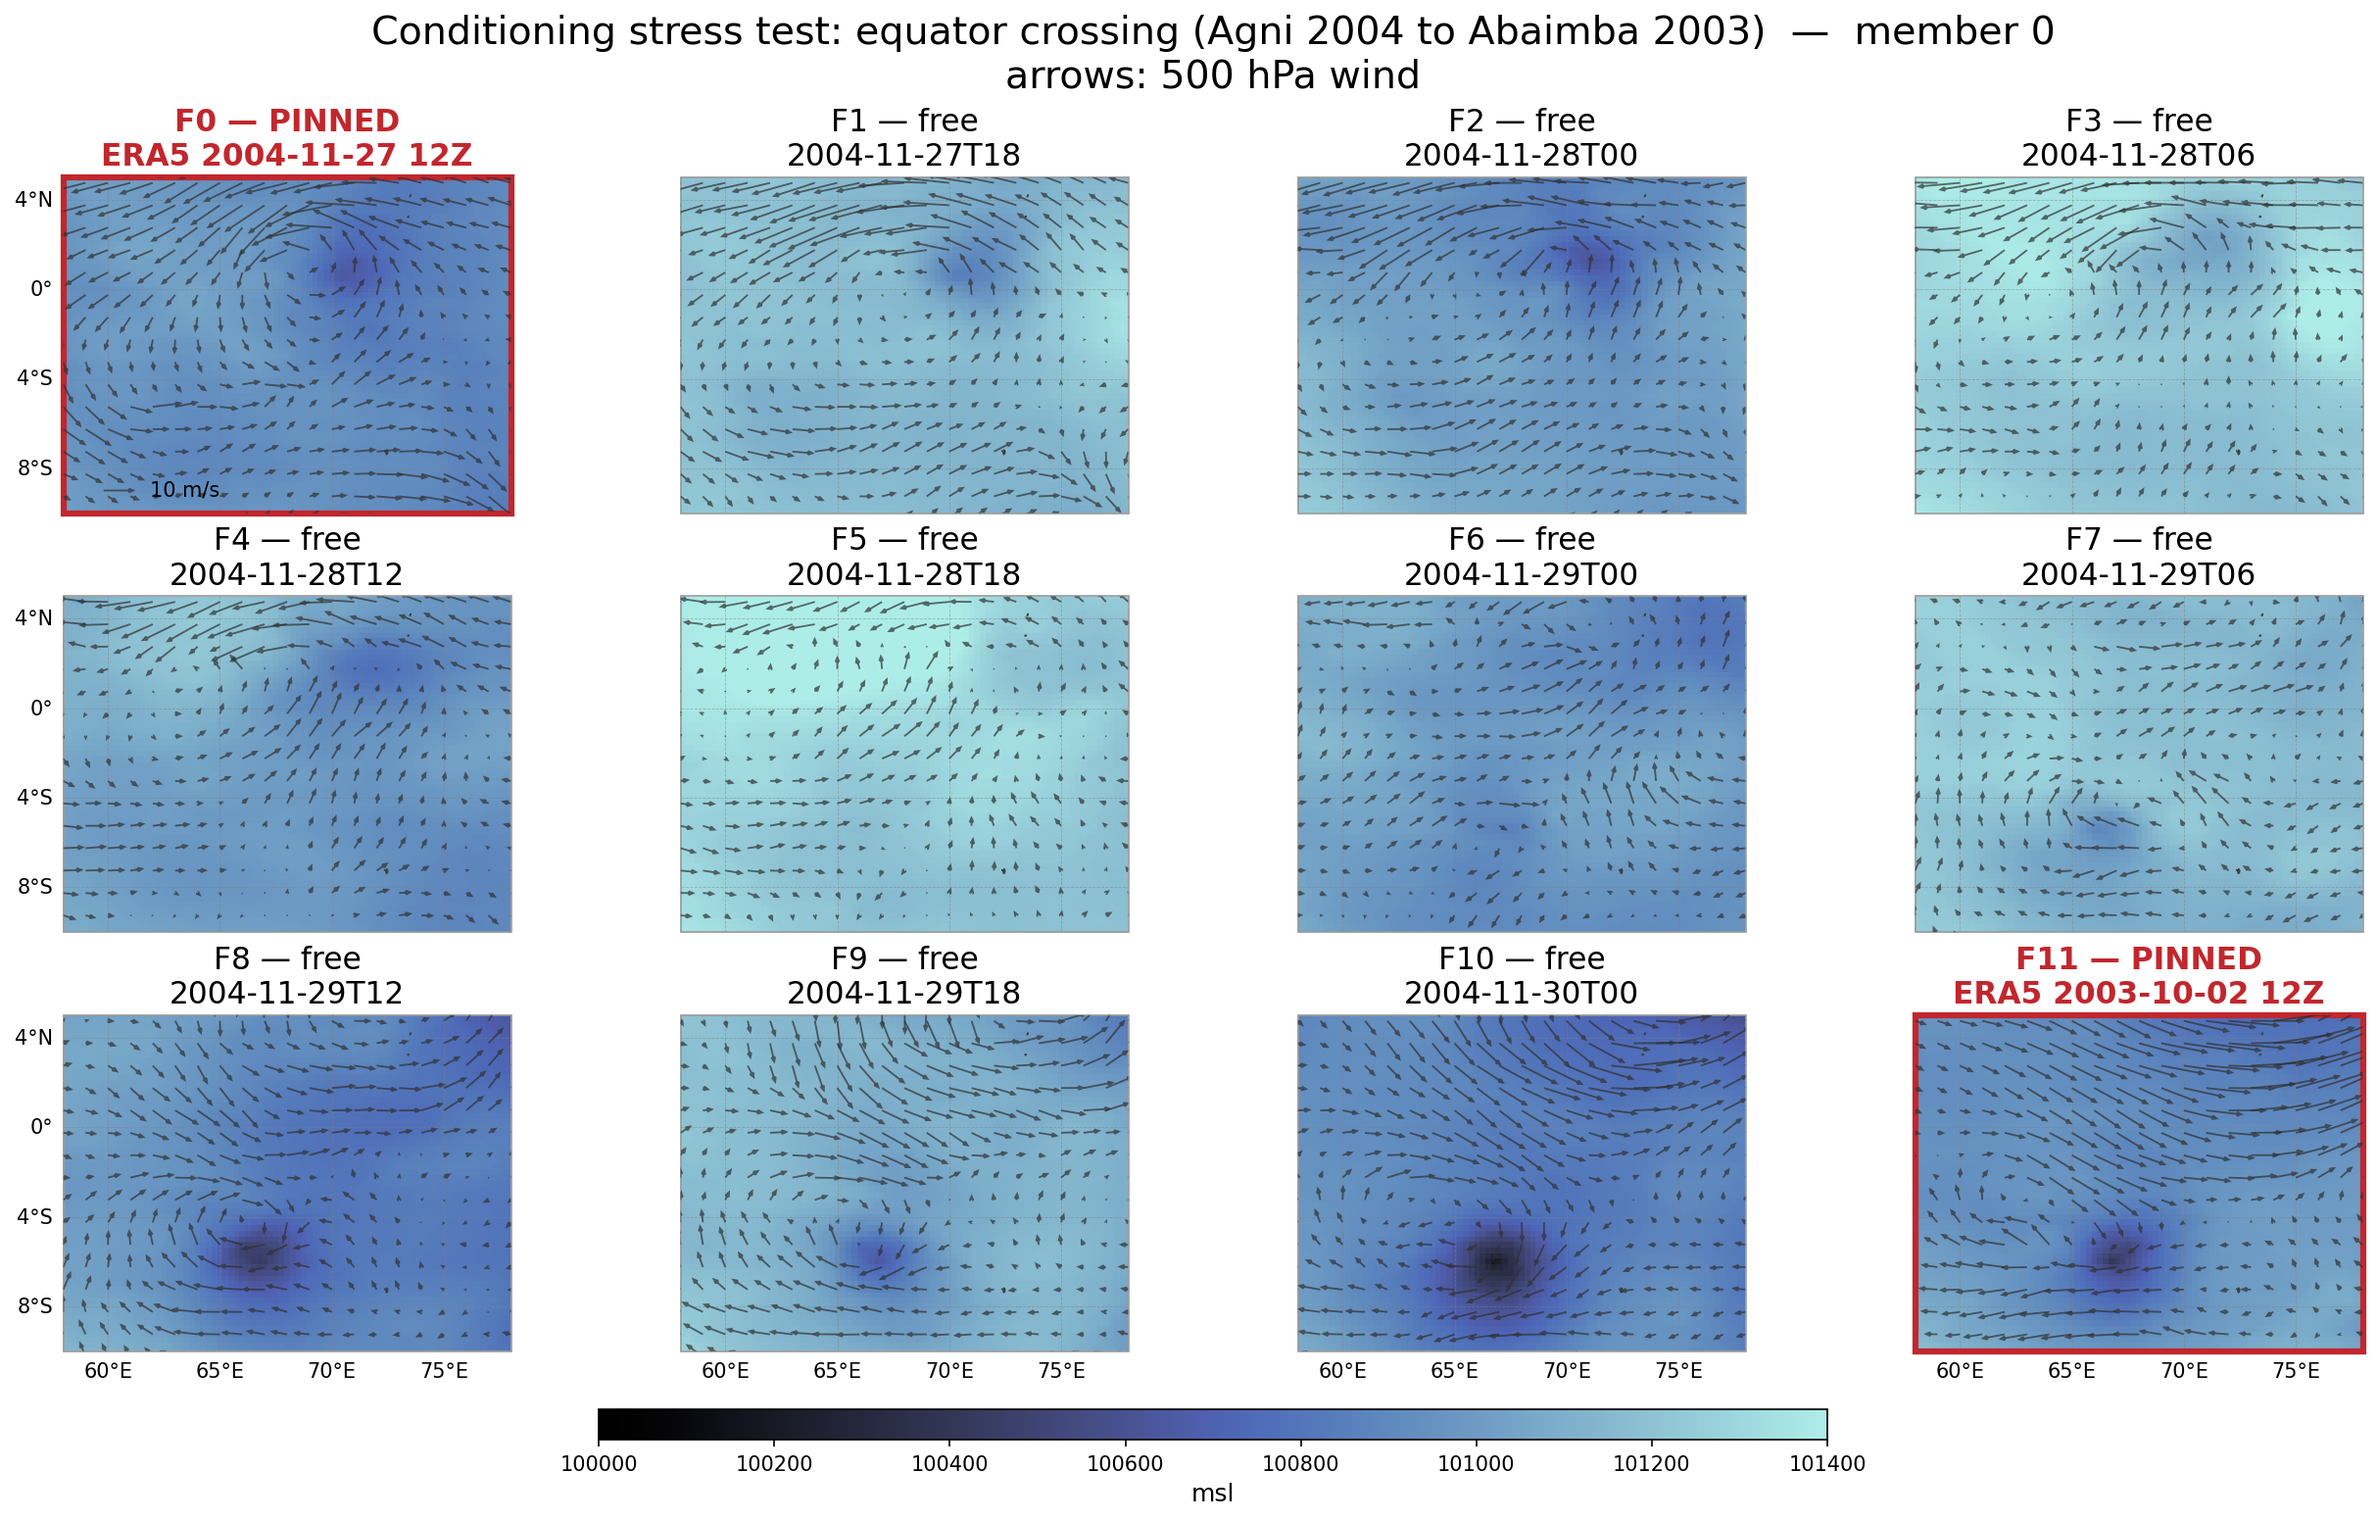
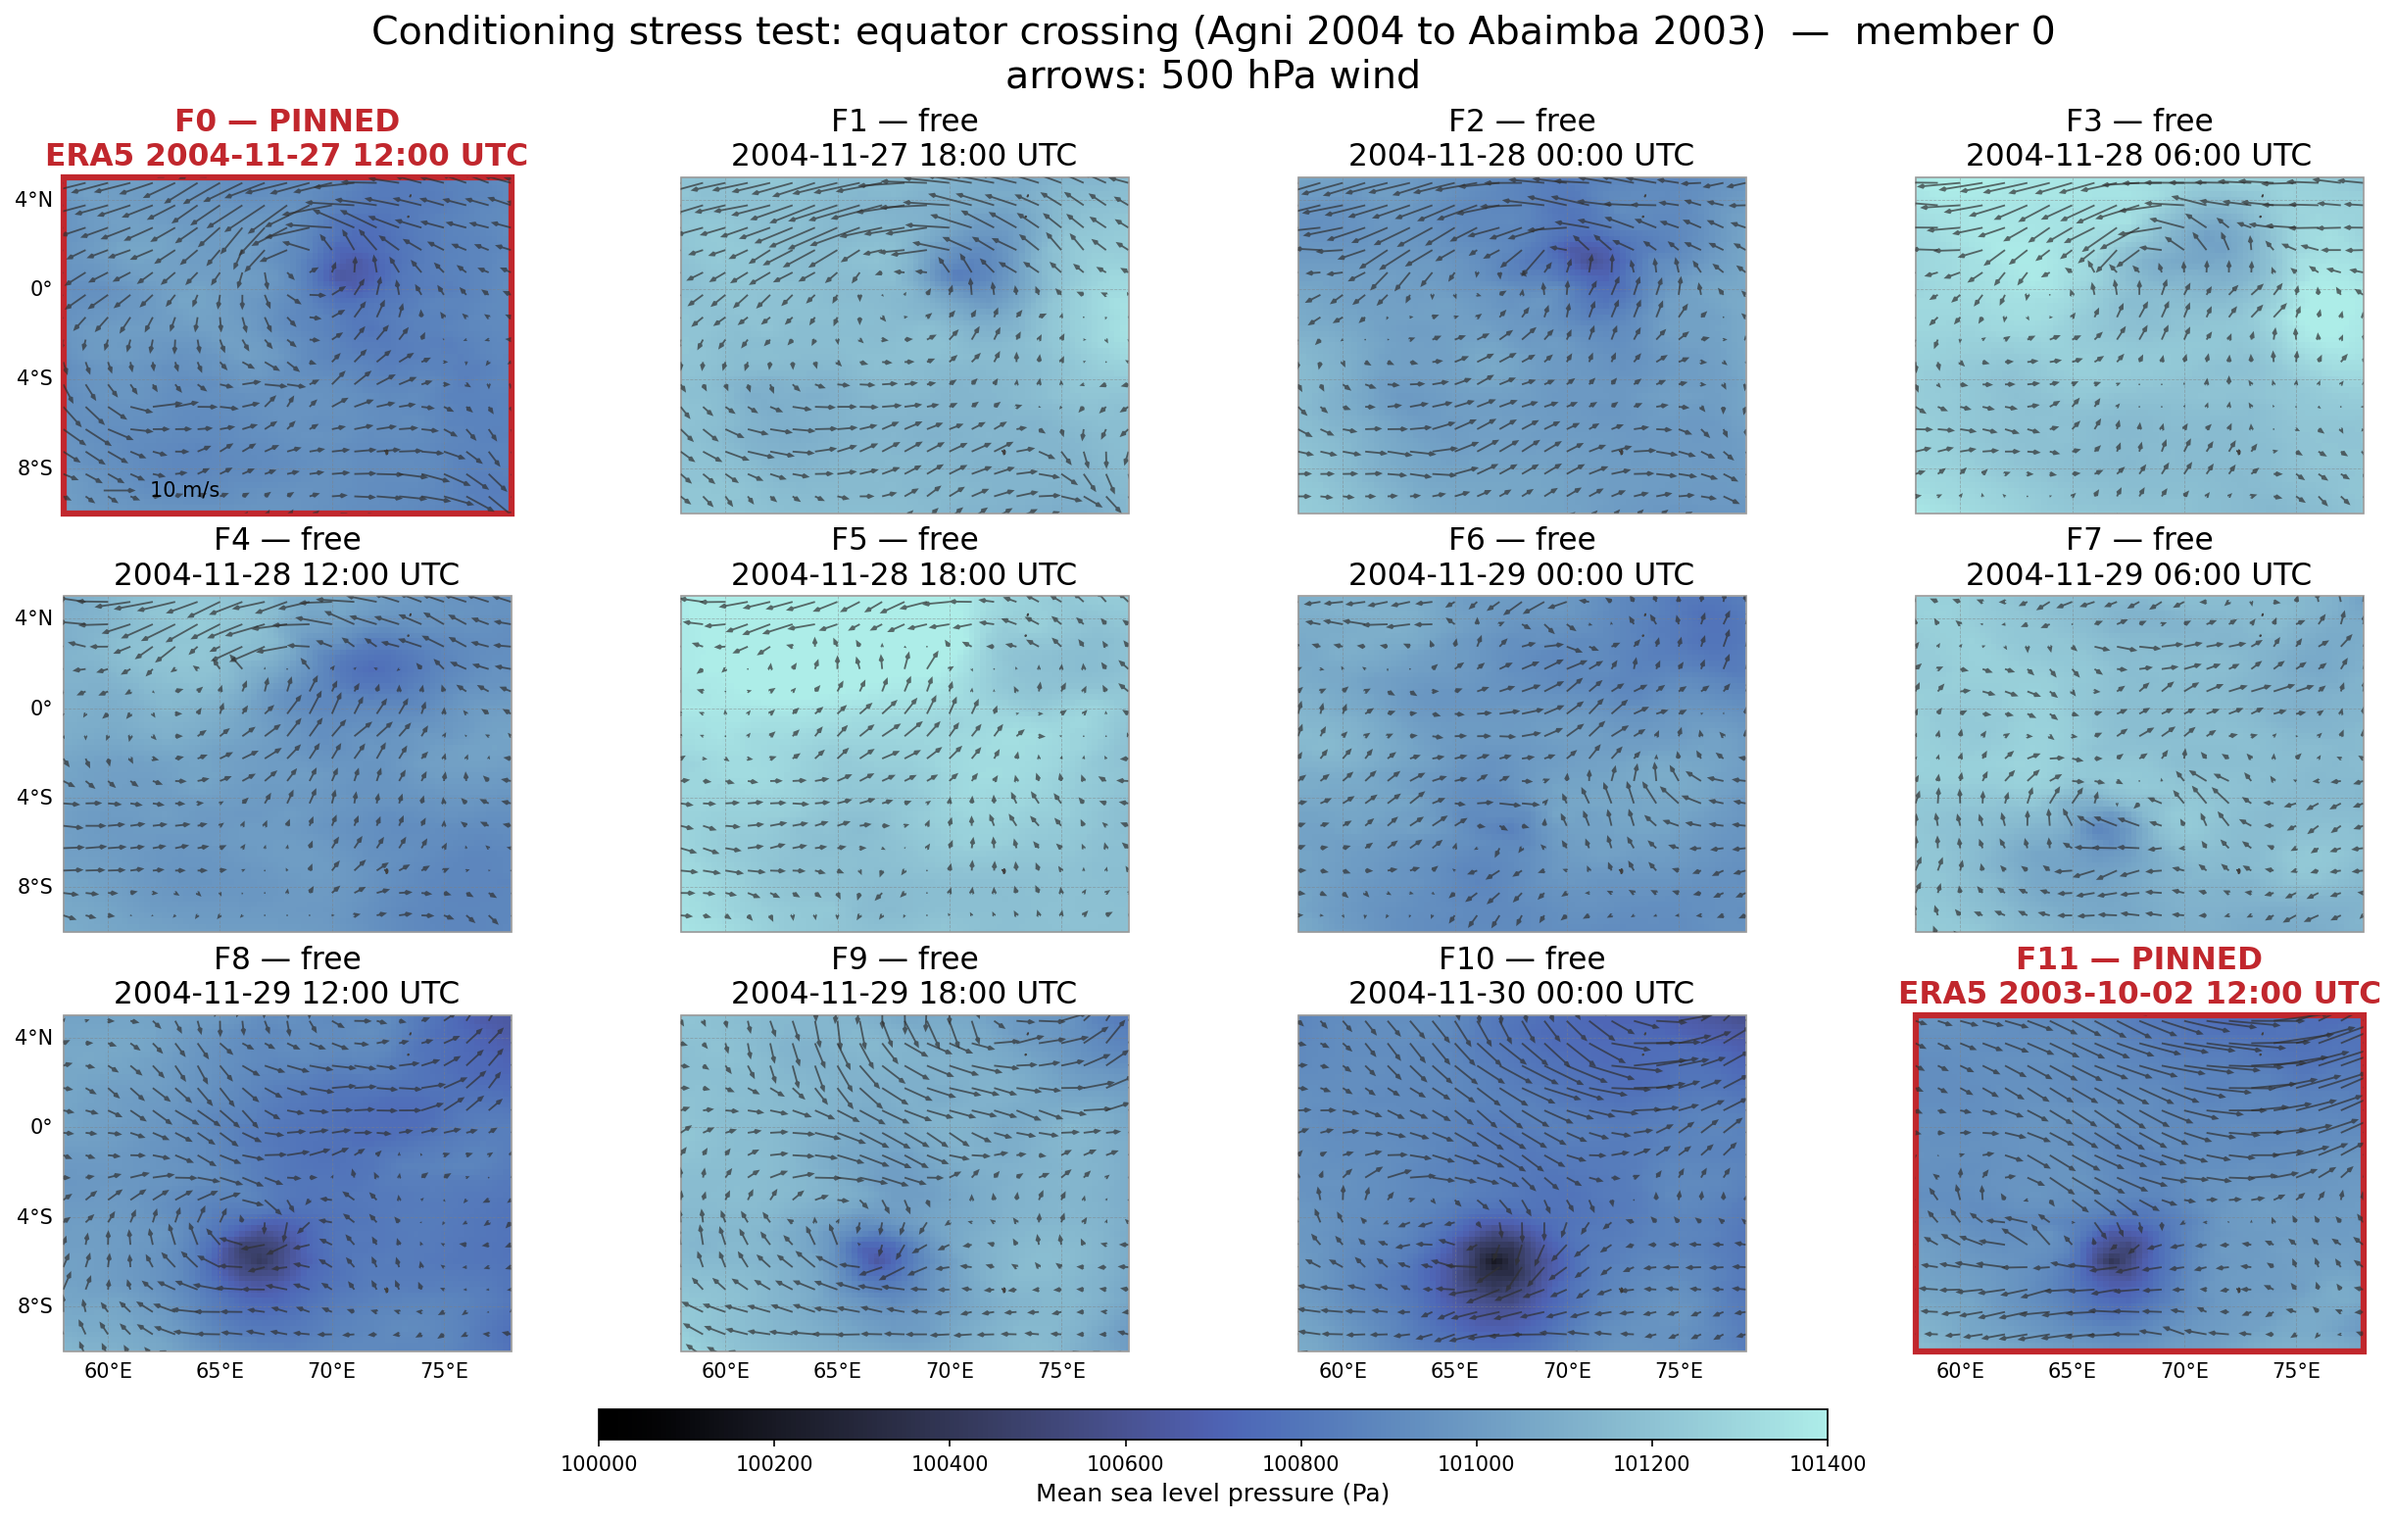
minor changes to conditioning stress test figure and caption

diff --git a/paper/extremes-on-rewind/si.tex b/paper/extremes-on-rewind/si.tex
@@ -252,7 +252,7 @@ Three reference curves are shown in each panel. Because model fields are generat
 \begin{figure}
 \centering
 \includegraphics[width=\textwidth]{conditioning_stress_test.png}
-\caption{Conditioning stress test: a both-end conditioned member generated from a pair of ERA5 analyses that no 66-hour trajectory connects. \textbf{All twelve panels are model output}; the red borders on F0 and F11 mark the two frames that were pinned and name the ERA5 state each was pinned to, rather than indicating panels taken from ERA5. Frame 0 is pinned to Cyclone Agni at 2004-11-27 12Z ($0.5^{\circ}$~N, $70.5^{\circ}$~E), an equatorial tropical low, and frame 11 to Tropical Storm Abaimba at 2003-10-02 12Z ($5.8^{\circ}$~S, $67.0^{\circ}$~E), located $\sim$790~km across the equator in the Southern Hemisphere. Shading shows MSLP on a common scale, arrows denote 500~hPa wind, and the regional domain is fixed at $58^{\circ}$--$78^{\circ}$~E, $10^{\circ}$~S--$5^{\circ}$~N. The model satisfies both terminal constraints: the Northern Hemisphere low decays over F1--F4, no organized vortex exists at F5--F6, and a Southern Hemisphere vortex emerges at F7 and intensifies into the terminal constraint. This experiment evaluates conditioning admissibility rather than forecast skill. Deliberate contrivances visible in panel headers include: endpoints drawn from different years, AMIP sea surface temperature clocked to the interval start time (supplying late-November-2004 SSTs to frame 11 rather than October-2003 values), and timestamps advancing 6-hourly from start time (frame 11 slot is 2004-11-30 06Z while the pinned field is 2003-10-02 12Z). Main-text Figure~3c presents the corresponding both-end result for dynamically adjacent endpoints.}
+\caption{Conditioning stress test: a both-end conditioned member generated from a pair of ERA5 analyses that no 66-hour trajectory connects. \textbf{All twelve panels are model output}; the red borders on F0 and F11 mark the two frames that were pinned and name the ERA5 state each was pinned to, rather than indicating panels taken from ERA5. Frame 0 is pinned to Cyclone Agni at 27 November 2004, 12:00 UTC ($0.5^{\circ}$~N, $70.5^{\circ}$~E), an equatorial tropical low, and frame 11 to Tropical Storm Abaimba at 2 October 2003, 12:00 UTC ($5.8^{\circ}$~S, $67.0^{\circ}$~E), located $\sim$790~km across the equator in the Southern Hemisphere. Shading shows MSLP on a common scale, arrows denote 500~hPa wind, and the regional domain is fixed at $58^{\circ}$--$78^{\circ}$~E, $10^{\circ}$~S--$5^{\circ}$~N. The model satisfies both terminal constraints: the Northern Hemisphere low decays over F1--F4, no organized vortex exists at F5--F6, and a Southern Hemisphere vortex emerges at F7 and intensifies into the terminal constraint. This experiment evaluates conditioning admissibility rather than forecast skill. Deliberate contrivances visible in panel headers include: endpoints drawn from different years, AMIP sea surface temperature clocked to the interval start time (supplying late-November-2004 SSTs to frame 11 rather than October-2003 values), and timestamps advancing 6-hourly from start time (frame 11 slot is 27 November 2004, 6:00 UTC while the pinned field is 2 October 2003, 12:00 UTC). Main-text Figure~3c presents the corresponding both-end result for dynamically adjacent endpoints.}
 \label{fig:conditioning_stress_test}
 \end{figure}
 
